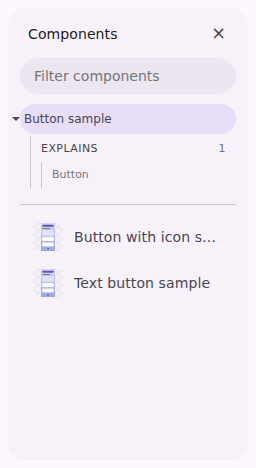
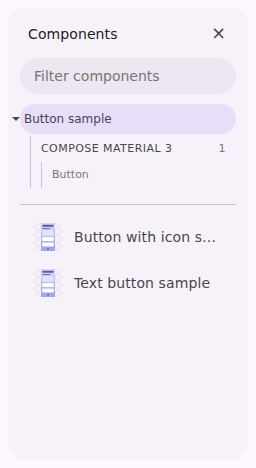
fix(serve): name a back-link directory after the catalog it comes from
The inverse directory was labelled `Explains`, which read correctly under one
assumption: that the KIT catalog declares `related` and a samples page
carries the inverse. The producer side landed the other way round -- only the
samples catalogs are spec-driven, so the samples declare which kit component
they are a call site for -- and the label is then backwards, because a kit
component does not explain its samples.

No fixed word can work. `related` is directed, and this directory lands on
whichever end did NOT declare the link, so any wording that is true on one
page is false on the other. The catalog the rows come from is true whichever
end declares, and it says the one thing the row labels cannot.

Same rule the forward directories already follow, which take the
DESTINATION catalog's heading -- so the two are now one rule read from
either end rather than two spellings.

Claude-Session: https://claude.ai/code/session_01QJVnYyuf9kfwEsUPWuZrAq

Changed region(s): [[0.1562, 0.2991, 0.625, 0.3291], [0.6562, 0.2991, 0.6875, 0.3291]]

diff --git a/server/src/main/kotlin/ee/schimke/composeai/cli/serve/ServeHttpServer.kt b/server/src/main/kotlin/ee/schimke/composeai/cli/serve/ServeHttpServer.kt
@@ -6337,11 +6337,17 @@ class ServeHttpServer(
         else
           ServeWeb.ComponentDirectory(
             "about",
-            // What the rows ARE, not where they live: a reader on a sample is being told which
-            // component it explains, and the destination catalog's title is already the answer to a
-            // different question (the forward directories name themselves that way because there
-            // the catalog IS the subject).
-            "Explains",
+            // The SOURCE catalog's own heading, exactly as a forward directory takes the
+            // destination's.
+            //
+            // A fixed word cannot work here, because `related` is directed and the page this lands
+            // on is whichever end did not declare it. "Explains" read correctly while the kit
+            // catalog was expected to declare the link and a samples page carried the inverse — and
+            // backwards the moment the samples catalog declares it instead, which is where the
+            // producer side landed: the kit component does not explain its samples. Naming the
+            // catalog the rows come FROM is true whichever end declares, and says the one thing a
+            // reader cannot see from the row labels themselves.
+            ServeWeb.catalogHeading(catalogBundleHost(host)?.title, host.label),
             rows,
           )
       }

diff --git a/preview-harness/fixtures/pages/serve-viewer-samples-as-catalog.html b/preview-harness/fixtures/pages/serve-viewer-samples-as-catalog.html
@@ -118,7 +118,7 @@
     <li role="none"><a class="cp-tree-component cp-tree-link" role="treeitem" href="/p/com.example.ButtonSample?token=demo-token-fixture&amp;session=compose-m3-samples" aria-expanded="true" aria-owns="cp-axes-tree-variants" aria-current="page"><span class="cp-tree-label">Button sample</span></a>
       <ul class="cp-tree-children cp-tree-variants" id="cp-axes-tree-variants" role="group">
         <li role="none" class="cp-tree-dir cp-tree-dir--about">
-          <span class="cp-tree-dir-head" role="treeitem" aria-expanded="true" aria-owns="cp-axes-tree-variants-about-0"><span class="cp-tree-label">Explains</span><span class="cp-tree-count">1</span></span>
+          <span class="cp-tree-dir-head" role="treeitem" aria-expanded="true" aria-owns="cp-axes-tree-variants-about-0"><span class="cp-tree-label">Compose Material 3</span><span class="cp-tree-count">1</span></span>
           <ul class="cp-tree-children" id="cp-axes-tree-variants-about-0" role="group">
             <li role="none"><a class="cp-tree-variant cp-tree-link" role="treeitem" href="/compose-m3/p/button-filled">Button</a></li>
           </ul>

diff --git a/preview-harness/fixtures/pages/serve-viewer-samples.html b/preview-harness/fixtures/pages/serve-viewer-samples.html
@@ -114,7 +114,7 @@
     <li role="none"><a class="cp-tree-component cp-tree-link" role="treeitem" href="/p/com.example.ButtonSample?token=demo-token-fixture&amp;session=compose-m3-samples" aria-expanded="true" aria-owns="cp-axes-tree-variants" aria-current="page"><span class="cp-tree-label">Button sample</span></a>
       <ul class="cp-tree-children cp-tree-variants" id="cp-axes-tree-variants" role="group">
         <li role="none" class="cp-tree-dir cp-tree-dir--about">
-          <span class="cp-tree-dir-head" role="treeitem" aria-expanded="true" aria-owns="cp-axes-tree-variants-about-0"><span class="cp-tree-label">Explains</span><span class="cp-tree-count">1</span></span>
+          <span class="cp-tree-dir-head" role="treeitem" aria-expanded="true" aria-owns="cp-axes-tree-variants-about-0"><span class="cp-tree-label">Compose Material 3</span><span class="cp-tree-count">1</span></span>
           <ul class="cp-tree-children" id="cp-axes-tree-variants-about-0" role="group">
             <li role="none"><a class="cp-tree-variant cp-tree-link" role="treeitem" href="/compose-m3/p/button-filled">Button</a></li>
           </ul>

diff --git a/server/src/test/kotlin/ee/schimke/composeai/cli/serve/ServeWebFixtureTest.kt b/server/src/test/kotlin/ee/schimke/composeai/cli/serve/ServeWebFixtureTest.kt
@@ -1841,7 +1841,10 @@ class ServeWebFixtureTest {
           listOf(
             ServeWeb.ComponentDirectory(
               "about",
-              "Explains",
+              // The SOURCE catalog's own heading, not a fixed word: `related` is directed and this
+              // directory lands on whichever end did not declare it, so only the catalog's name is
+              // true in both directions.
+              "Compose Material 3",
               listOf(ServeWeb.ComponentDirectoryRow("Button", "/compose-m3/p/button-filled")),
             )
           ),

diff --git a/serve-web/renders/samples-back-link/README.md b/serve-web/renders/samples-back-link/README.md
@@ -1,13 +1,16 @@
 # The samples back-link
 
-A samples page's component drawer, carrying the derived **Explains** directory: the kit component
-this sample is a call site for.
+A samples page's component drawer, carrying the derived back-link: the kit component this sample is
+a call site for, under a directory named after the catalog it comes from.
 
-`related` is directed and declared in one place — the kit catalog names the samples that explain its
-components, and the samples catalog, imported from upstream and regenerated on every refresh,
-declares nothing. The back-link is the inverse (`ServeRelatedCatalogs.inverse`), computed from the
-kit catalog's own declarations, which is why a samples catalog served **alone** has no back-links:
-there is no kit catalog on that box to link back to, and that is the truth rather than a gap.
+`related` is directed and declared at ONE end; this directory is the inverse
+(`ServeRelatedCatalogs.inverse`), derived at read time. Which is why a catalog served **alone** has
+no back-links: there is no other catalog on that box to have declared one, and that is the truth
+rather than a gap.
+
+The directory is named after the catalog the rows come FROM, never a fixed word, because the page it
+lands on is whichever end did not declare the link — see the label's own note in
+`ServeHttpServer.componentBackLinkDirectories`.
 
 ```
 node shoot.mjs
